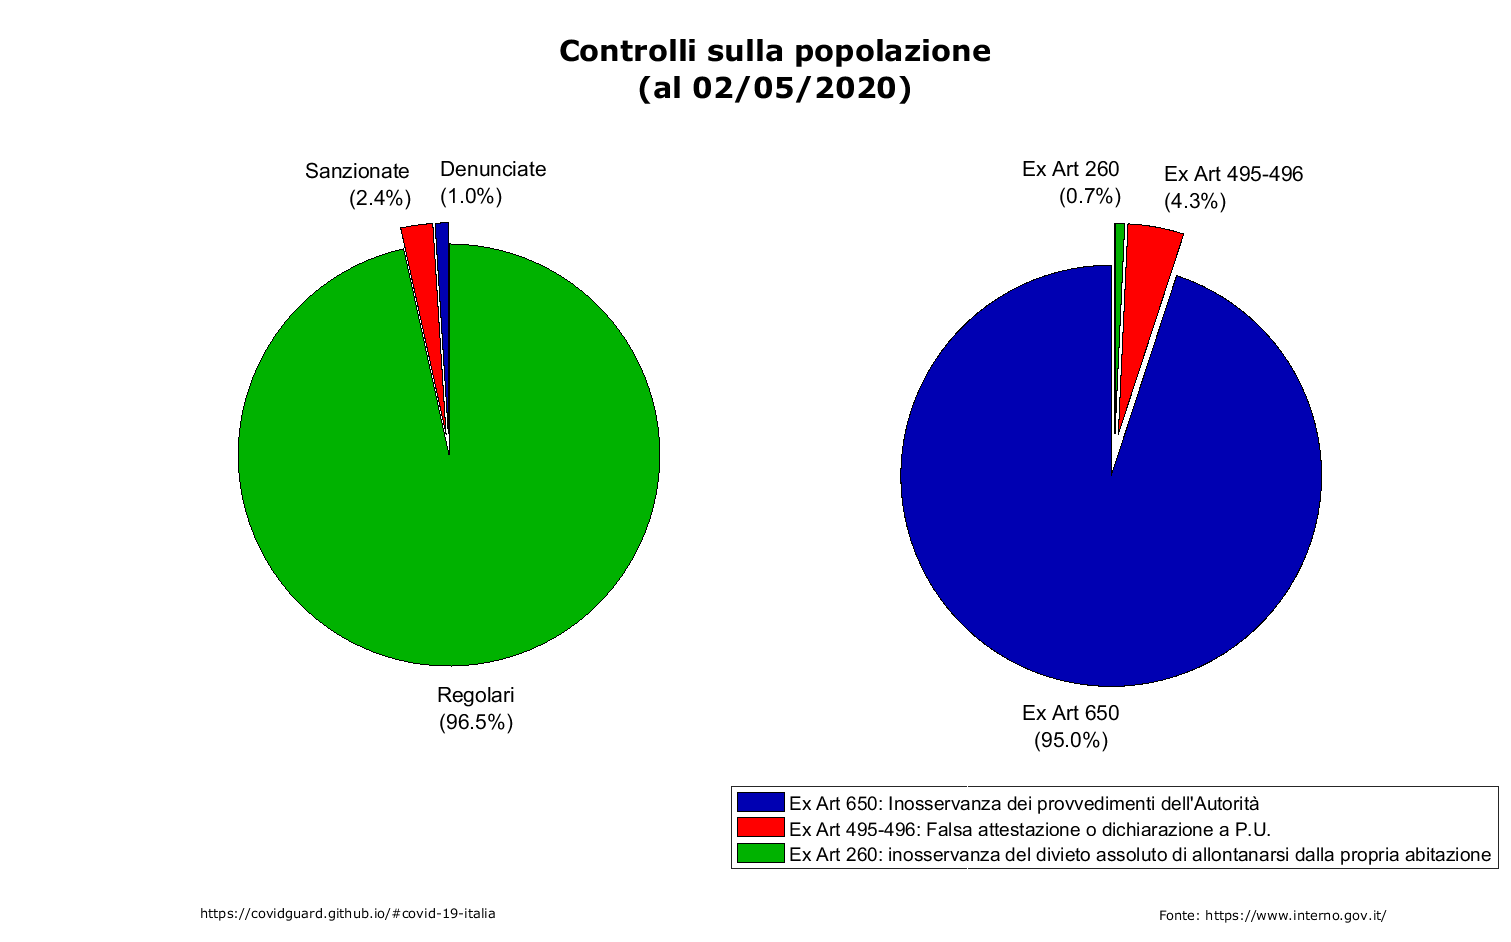
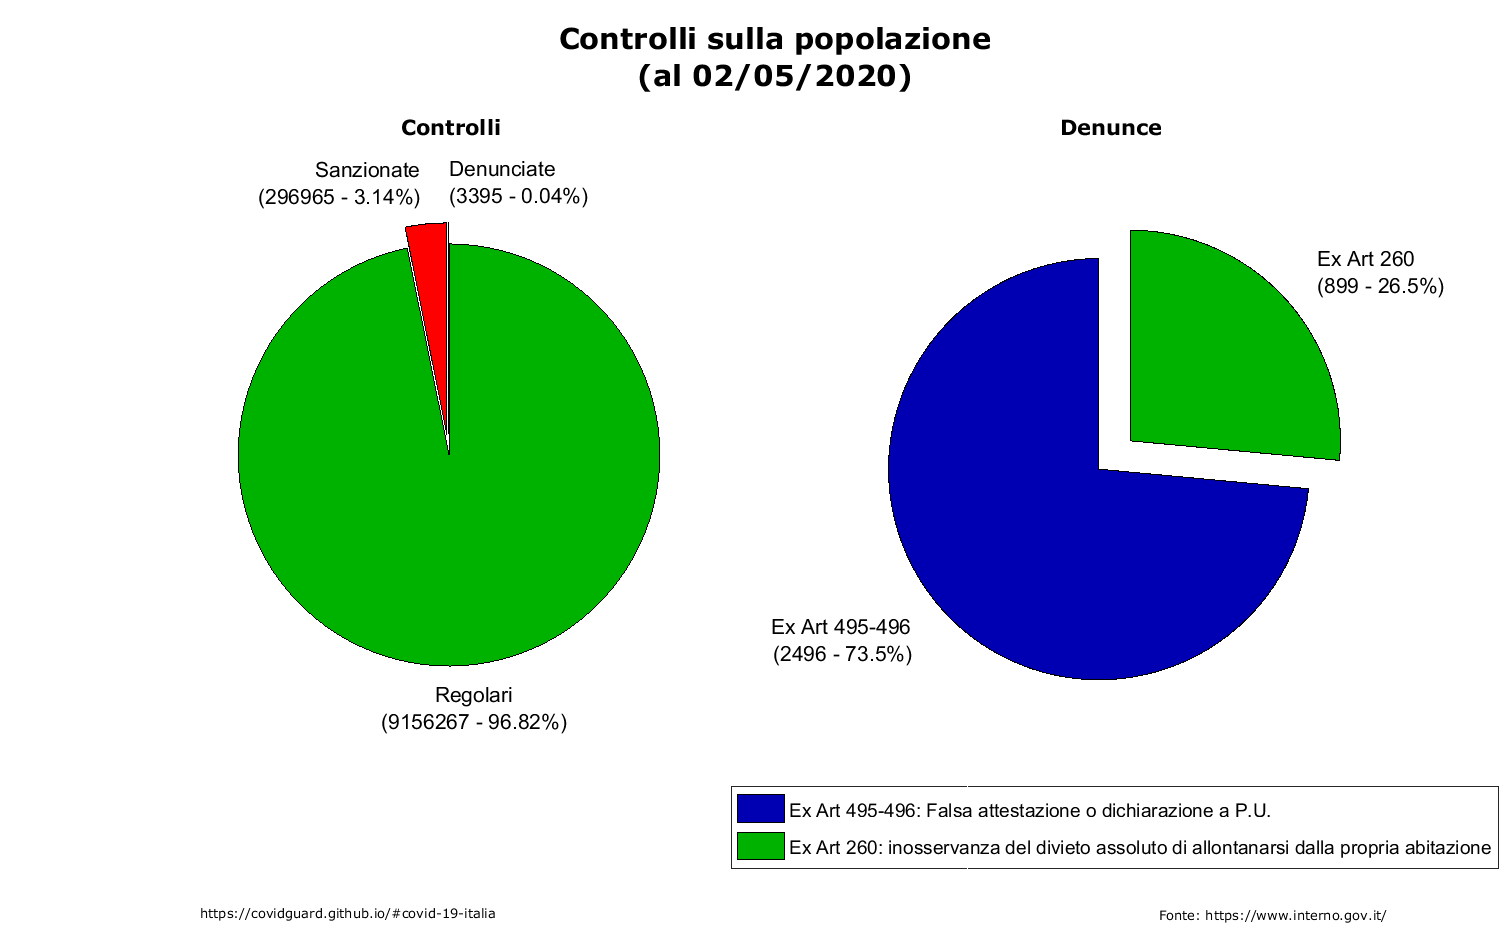
Add controlli e sanzioni

diff --git a/index.md b/index.md
@@ -33,6 +33,7 @@ Tutti i grafici qui prodotti vengono generati semi automaticamente dai dati uffi
     <li> <a href="#stima-del-picco-dei-nuovi-casi-positivi">Italia: Stima del picco dei nuovi casi positivi</a> </li> 
     <li> <a href="#stima-del-picco-degli-attualmente-positivi">Italia: Stima del picco degli attualmente positivi</a> </li>   
     <li> <a href="#casi-vs-decessi">Italia: Relazione Casi vs Decessi</a> </li> 
+    <li> <a href="#controlli-denunce-e-sanzioni">Italia: Controlli, denunce e sanzioni</a> </li> 
     <!-- <li> <a href="#italia-regioni">Regioni d'Italia</a> </li> -->
     <li> <a href="#confronto-regioni">Regioni: confronto</a> </li> 
     <li> <a href="#dati-giornalieri-cumulati">Regioni: dati giornalieri cumulati</a> </li>     
@@ -131,6 +132,15 @@ Di seguito due rappresentazioni:
 ![Casi Vs Decessi](/slides/img/regioni/ita_correlazioneCasiDeceduti.PNG)
 
 
+### Controlli, denunce e sanzioni
+Numero ed esisto complessivo dei controlli:
+![controlliPopolazione](/slides/img/regioni/controlli_popolazione.PNG)
+
+Andamento giornaliero delle denunce:
+![controlliPopolazioneGiornalieri](/slides/img/regioni/controlli_persone_daily.PNG)
+
+Andamento giornaliero delle numero di denunce rispetto ai controlli totali:
+![controlliPopolazioneGiornalieri](/slides/img/regioni/controlli_persone_daily_percentuale.PNG)
 
 
 
